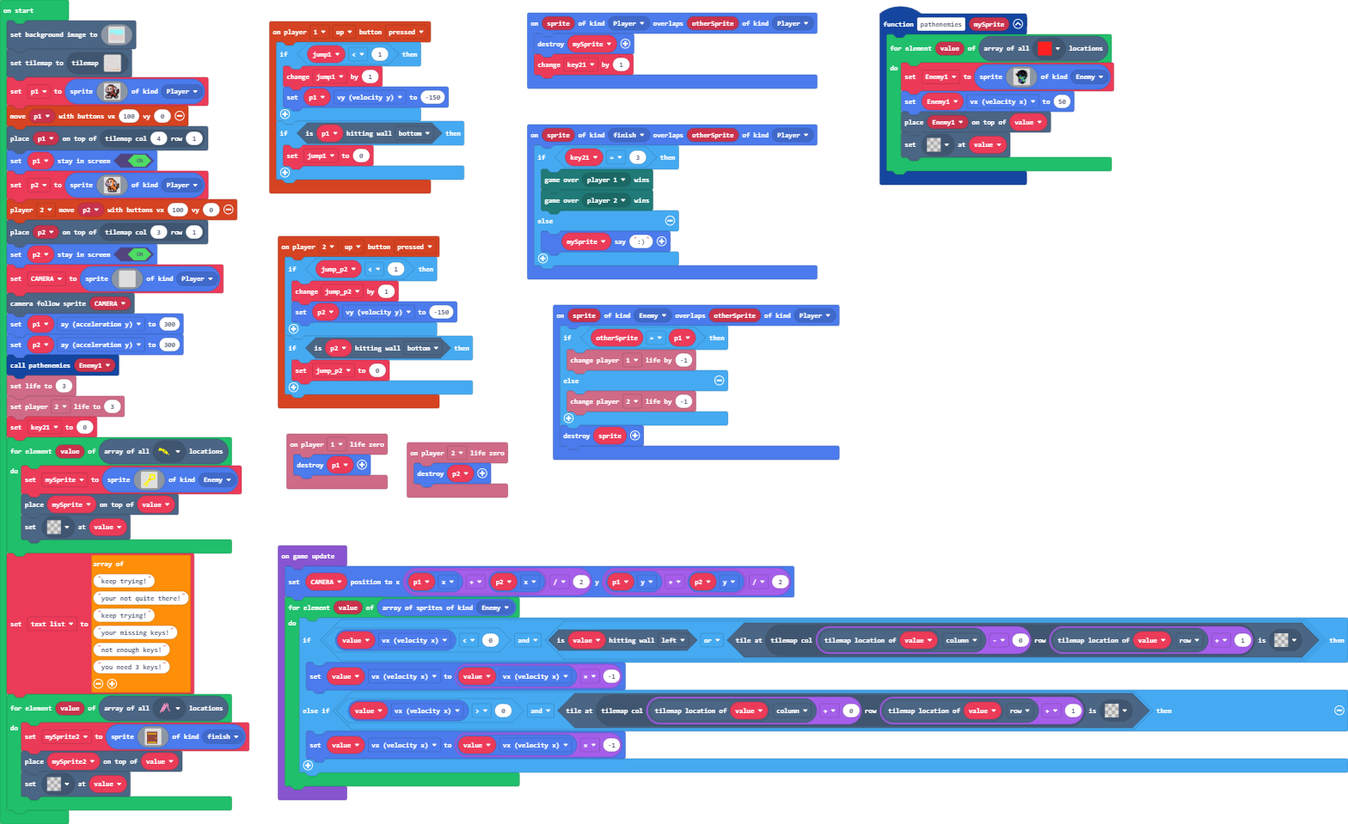
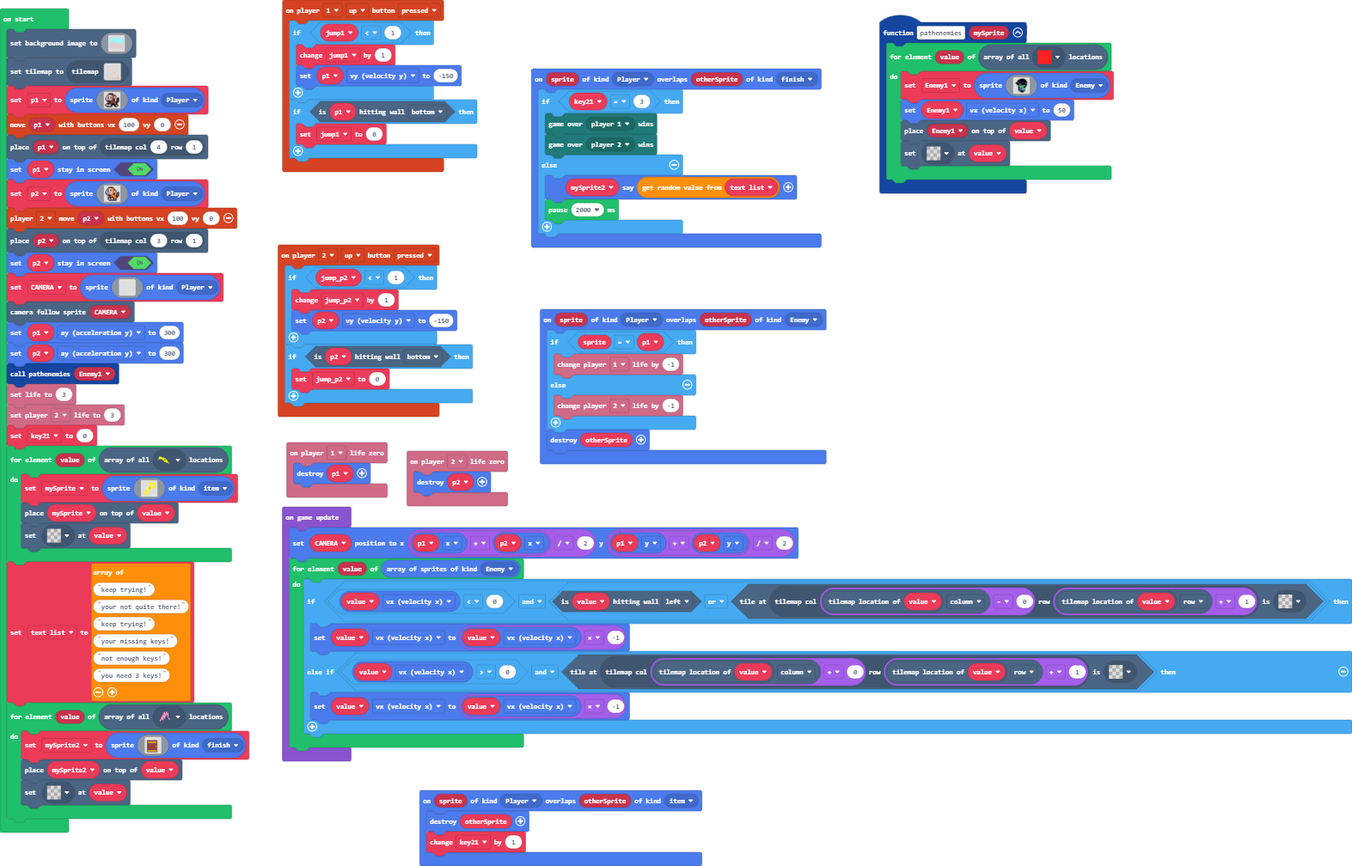
Update main.blocks, main.ts, tilemap.g.jres, tilemap.g.ts

diff --git a/tilemap.g.ts b/tilemap.g.ts
@@ -56,7 +56,7 @@ namespace myTiles {
 . . . . . . . . . . . . . . . . 
 `, [myTiles.transparency16], TileScale.Sixteen);
             case "level2":
-            case "level2":return tiles.createTilemap(hex`6400640000000000000000000000000000000000000000000000000000000000000000000000000000000000000000000000000000000000000000000000000000000000000000000000000000000000000000000000000000000000000000000000000000000000000000000000000600000000000000000000000000000000000000000000000000000000000000000000000000000000000000000000000000000000000000000000000000000000000000000000000000000000000000000000000000000000000000000001010101010101000000000000000000000000000000000000000000000000000000000000000000000000000000000000000000000000000000000000000000000000000000000000000000000000000000000000000000000000000000000000000000000000000000000000000000000000000000000000000000000000000000000000000000000000000000000000000000000000000000000000000000000000000000000000000000000000000000000000000000000000000000000000000000000000000000000000000000050000000000000000000000000000000000000000000000000000000000000000000000000000000000000000000000000000000000000000000000000000000000000000000000000000000000000000000000000000000000000000000000000000010101010101010101010005000000000000000000000000000000000000000000000000000000000000000000000000000000000000000000000000000000000000000001010101010100000000000000000000000000000000000000000000000000000000000000000000000000010101010101010000000000000000000000000000000000000000000000000000000000000000010101010101000000000000000000000000000000000000000000000000000000000000000000000000000000000000000000000000000000000000000000000000000000000001010101010000000000000000000000000000000000000000000000000000000000000000000000000000000000000000000000000000000000000000000000000000000000000000000000000000000000000000000000000000000000000000000000000000000000000000000001010102020202020101000000000000000000000000000000000000000000000000000000000000000001010101010100000000000000000000000000000000010101010101010100000000000000000000000000000000000000000000000000000000000001010101010101000000000000000000000000040202040000000000000000000000000000000000000000000000000000000000000000000000000000000000000000000001010101010000000000000000000000000000000000000000000000000000000000000000000000000101010000000000010101010101000001020202020201010000000000000000000000000000000000000000000000000000000000000000000000000000000000000000000000000000000101010101010101000000000000000000000000000000000000000000000000000000000000000000000101010101010000000000000000000000000000000000000000000000000000000000000000000000000000000000000000000500000000000000000000000000000000000000000000000000000000000000000000000000000000000000000000000000000000000000000000000000000000000000000000000000000000000000000000000000000000000000000000000000000101010101000000000000000000000000000000000000000000000000000000000000000000000000000000000000000000000000000000000000000000000000000000000000000005000000000000000000000000000000000000000000000000000000000000000000000000000000000000000000000000000000000000000000000000000000000101010101000000000000000000000000000000000000000000000000000001010101010101010100000000000000000000000000000000000000000000000000000000000000000000000000010101010101000000000000000000000000000001010100000000000000000000000000000000000000000000000000000000000000000000000000000000000000000000000001040202020404000000000500000000000000000000000000000000000000000000000000000500000000000000000000000000000000000000000000000000000000000000000001010101010000000000000000000000000000000000000000000000010104040101010000000101010101010101010101010101010000000000000000000001010101010101010101000000000000000000000000000000000500000000000001010101010000000101010000000000000000000000000000000000000000000000000000000000000000000000000000000000000000000000000000000000000000000000000000000000000000000000000000000000000001010101010101000000000000000000000000000000000000000000000000000000000000000000000000000000000000000000000000000000000000000000000000000000000000000000000000000000000000000000000000000000000000000000000000000000000000000000000000000000000000000000000000000000000000000000000000000000000000000000000000000000000000000000000000000000000000000000000000000000000000000000000000000000000000000000000000000000000000000000000000000000000000000000000000000000000000000000000000000000000000000000000000000006000000000000000000000000000000000000000000000001010101010100000000000000000000000000000000050000000000000000000000000000000000000000000000000000010100000000000000000000000000000000000000000101010101010101010101000000000000000000000001010101010101000000000000000000000000000000000000000001010101010000000000000000000000000101010000000000000001010101010000000000000000000000000000000000000000000000000000000000000000000000000000000000000000000000000000000000000000000000000101010101000000000000000000000000000000000001010100000000000000000000000000000000000000000000000000000000000000000000000000000000000000000000000000000005000000000000000000000000000000000000000000000000000000000000000000000000000000000000000000000000000000000000000000000000000000000000000100000000000000000000000000000000000000000000000000000000010101010101010000000000000000000000000000000000000000000000000000000000000000000000000000000000000000000000000000000000000000000000000000000000010101010000000000000000000000000000000000000000000000000000000000000000000000000000000000000000010101010000000000000000000000000000000000000000000000000000000000000001010101000000000000000000000000000000000000000000000000000000000000000000000000000000000000000000000000000000000000000000000000000000000000000000000000000000000000000000000000000000000000000000000000000000010100000000000000000000000000000000000000000000000000000000000000000000050000000000000000000000000500000000000000000000000000000000000000000000000000000000000000000000000000000000000000000000000000000000000000000000000000000000000000000000000000000000000000000000000001010101010100000000000001010101010101010000000000000000000000000000000000000000000001010101010101010101000000000000000000000000000000000000000000000000000000000000000000000000000000000000000000000000000000000000000000010101010000000000000000000000000000000001020200000000000101010101010000000000000000000000000000000000000000000000000000000000000000010000000000000000000000000000000000000000000000000000000000000000000000000000000000000000000000000101010101010102020000000000000000000000000000000000000000000000000000000000000000000000060000000101010000000000000000000000000000000000000000000000000000000000000000000000000000000000000000000000000000000000000000000200000000000000000000000000000000000000000000000000000000000001010101010101010100000000000000000000000000000000000000000000000000000000000000000000000000000000000000000000000000000000000000000000000002000000000000000000000000000000000000000000000000000000000000000000000000000000000000000000000000000000000000000000000000000000000000000101010000000000000000000000000000000000000000000000000000000000020000000000000000000000000000000000000000000000000000000000000000000000000000000000000000000000000000000000000000000000000000000000000000000001010101010100000000000000000000000000000000000000000000000200000000000000000000000000000000000000000000000000000000000000000000000000000000000000000000000000000000000000000000000000000000000000000000000000000000000000000000000000000000000000000000000000000002000000000000000000000000000000000000000000000000000000000000000000000000000000000000000000000000000000000000000000000000000000000000000000000000000000000000000000000000010101010101010000000000000000020000000000000000000000000000000000000000000000000000000000000000000000000000000000000000000000000000000000000000000000000000000000000000000000000000000000000000000000000000000000000000000000000000000200000000000000000000000000000000000000000000000000000000000000000000000000000000000000000000000000000000000000000000000000000000000402020202040402020204000000000000000000000000000000000000000000000002000000000000000000000000000000000000000000000000000000000000000000000000000000000000000000000000000000000000000000000000000101010101010101010101010101010101010000000000000000000000000000000000000402020101000000000000000000000000000000000000000000000000000000000000000000000000000000000000000101010000000000000000000000000100000000000000000000000000000000000000000000000005000000000000000000010101010100000000000000000000000000000000000000000000000000000000000000000000000000000001010101010100000000000000000000000000000000000000000000000000000000000000000000000001010101010101010000000000000000000000000000000000000000000000000000000000000000000000000000000000000000000000000101000000000000000000000000000000000000000000000000000000000000000000000000000000000000000000000000000000000000000000000000000000000000000000000000000000000000000000000000000000000000000000000001010100000000000000000000000000000000000000000000000000000000000000000000000000000000000000000000000000000000000000000000000000000000000000000000000000000000000000000000000000000000000000000101010101000000000000000000000000000000000000000000000001010000000000000000000001010100000000000000000000000000000000000000000000000000000000000000000000000000000000000000000000000000000000000000000100000000000000000000000000000000000000000000000000000000000001010100000000000000000001010000000000000000000000000000000000000000000101010101010101010000000000000000000000000000000000000000000000000100000000000000000000000000000000000000000000000000000000000000000000000000000000000000000001010000000000000000000000000000000000000000000000000000000001010101010101000000000000000000000101010000000000000000000000000000000000000000000000000000000000000000000000000000000000000000000000000000000100000000000000000000000004020204000000000000000000000000000000000000000000000000000101010100000000000000000000000000000000000000000000000000000000000000000000000000000000000000000000000000000000000000010000000000000000000101010101010101000000000000000000000000000000000000000000000000000000000000000000000000000000000000000000000000000000000000000000000000000000000000000000000000000000000000000000000001010000000000000000000000000000000000000000000000000000000000000000000000000000000000000000000000000000000000000000000000000000000000000000000000000000000000000000000000000000000000000000000000000000000001010000000000000000000000000000000000000000000000000000000000000000000000000000000002020400000000000000000000000000000000000000000000000000000000000000000000000000000000000000000000000000000000000000000000000000000000000000000000000000000000000000000000000000000000000001010000000002010101010101010101000000000000000000000000000000000000000000000000000000000000000000000000000000000000000000000000000000000000000000000000000000000000000101010101010202020202040000000000000000000000020000000000000000000000000000000000000000000000000000000000000000000000000000000000000000000000000000000000000000000000000000000000000000000000000000000000000000000001010101010101010000000000000000000200000000000000000000000000000000000000000000000000000000000000000000000000000000000000000000000000000000000000000000000000000000000000000000000000000000000000000000000000000000000001010100000000000002000000000000000000000000000000000000000000000000000000000000000000000000000000000000000000000000000000000000000000000101010000000000000000000000000000000000000000000000000000000000000000010000000000020000000000000000000000000101010101010000000000000000000000000000000000000000000000000000000000000000000000000000010100000000000000000000000000000000000000000000000000000000000000000000000000000000000200000000000000000000010100000000000000000000000000000000000000000000000000000000000000000000000000000000060001010000000000000000000000000000000000000000000000000000000000000000000000000000000000000002000000000000000000000000000000000000000000000000000000000000000000000000000000000000000000000000000001010101000000000000000000000000000000000000000000000000000000000000000000000000000000000000000000020000000000000000000000000000000000000000000000000000000000000000000000000000000000000000000000010101000000000000000000000000000000000000000000000000000000000000000000000000000000000000000000000000000200000000000000000000000000000000000000000000000000000000000000000000000000010000000000000000010000000000000000000000000000000000000000000000000000000000000000000000000000000000000000000000000000000402010101010100000000000000000000000000000000000000000000000000000000000000000101010101010000000000000000000000000000000000000000000000000000000000000000000000000000000000000000000000000000000001010101010000000000000000000000000000000000000000000000000000000000000000000000000000000000000000000000000000000000000000000000000000000000000000000000000101000000000000000000000000000000000101010101000000000000000000000000000000000000000000000000000000000000000000000000000000000000000000000000000000000101010101010000000000000000000000000000000001010100000000000000000000000000000000000100000000000000000000000000000000000000000000000000000000000000000000000000000000000000000000000000000000000000000000000000000000000000000000000000000001010101000000000001010101010000000000000000000000000000000000000000000000000000000000000000000000000000000000000000000000000000000000000000000000000000000000000000000000000000000000000000010101010101000000000000000000000000000000000000000000000000000000000000000000000000000000000000000101010000000000000000000000000000000000000000000000000000000001010101010000000000000000000000010101000000000000000000000000000000000000000000000000000000000005000000000000000000000000000000000001010100000000000000000000000000000000000000000000000000000000000000000000000000000000000500000000000000000000000000000000000000000000000000000000000000000001010101010101000000000000000000000000000000000000000000000000000000000000000000000000000000000000000000000000000000000000000001010101010101000000000000000000000000000000000000000000000000000000000000000000000000000000000000000000000000000000000000000000000000000000000000000000000000000000000000000000000000000000000000000000000000000000000000000000000000000000000000000000000000000000000000000000000000000000000000000000000000000000000000000000000000000000000000000000000000000000000000000000000000000000000600000500000000000000000000000000000000000000000000000000000000000000000000000001010101010000000000000000000000000000000000000000000000000000000000000000000000000000000000000000000000000000000000000001010101010101010000000000000000000000000000000000000000000000000000000000000000000000000000000000000000000000000000000000000000000000000000000000000000000000000000000000000000000000000000000000000000000000000000000000000000000000000000000000000000000000000000000000000000000000000006000000000000000101010000000000000000000000000000000000000000000000000000000102020202020202020202020100000000000000000000000000000000000000000000000100000000000000000000000000000000010101010101010101010101010101010100000001000000000000000000000000000000000000000000010101010101010101010101010101010101000000000000000000000000000000000000000101010101000000000000000000000000000000000000000000000000000000000000000000000000000000000000000000000000000000000000010101010000000000000000000000000000000000000101000000000000000000000000000000000000000000000000000000000000000000000000000000000000000000000000000000000000000000000000000000000000000000000000000000000000000000000000000000000000000000000000000000000000000000000000000000000000000000000000000000000000000000000000000001000000000000000000000000000000000000000000000000000000000000000000000000000000000000000000000000000000000000000000000000000000000000000000000000000000000000000000000000000001020202020202010000000000000101010100000000000000000000000000000000000000000000000001010100000000000000000000000000000000000000000000000000000000000000000000000000000000000000000000000000000101010101010101010101010101010000000000000000000000000000000000000000000000000000000000000000000000010000000000000000000000000000000000000000000000000000000000000000000000000000000000000000000000000000000000000000000000000000000000000000000000000000000000000000000000000000000000000000000000000000000000000000000000000000000000000000000000000000000000000000000000000000000000000000000000000000000000000000000000000000000000000000000000000000000000000000000000000500000000000000000000000000000000000000000000000000000000000000000000000000000000000000000202020201000000000000000000000101010202020203030300000000000000000000000000000000000500000000000000000101010101010101010000000000000000000000000000000000000000000000000000000000000000000000000000000002010101000000000000000000000000000001010101010100000000000000000000000000000000010101010101010000000000000000000000000000000000000000000000000000000000000000000000000000000000000000000000000000000000020000000000000000000000000000000000000000000000000000000000000000000000000000000000000000000000000000000000000000000000000000000000000000000000000000000000000000000000000000000000000001010000000000000200000000000000000000000000000000000000000000000000000000000000000000000000000000000000000000000000000000000000000000000001010100000000000000000000000000000000000000000006000001010101000000000000000002000000000000000000000000000000000000000000000000050000000000000000000000000000000000000000000000010000000000000000000000000000010101010000000000000000000000000001010101010101000000000000000000000000020000000000000000000000000000000000000000000001010101010101000100000000000000000000000001010101010000000000000000000000000000000000000000000000000000000001010101000000000000000000000000000000000000000200000000000000000000000000000000000000000000000000000000000101000000000000000000000000000000000000000000010101000000000000000000000000000000000000000000000000000000000000000000000000000000000000000002000000000000000000000000000000000000000000000000000000000000000000000000000000000000000600000000000000000000000101010000000000000000000000000000000000000000000000000000000000000000000000000000000000020000000000000000000000000000000000070000000000000000000000000000000000000000000000010101010000000000000000000000000000000000000000000000000000000000000001010100000000000000000000000000000000000000000200000000000000000000000000010101010101010101010000000000000000000000000000000101010000000001010000000000000000000000000000000000000000000000000001010101000000000000000000000000000000000000000000000002000000000000000000000000000000000000000000000000000000000101000000000000000000000000000000000000000000000000000000000000000000000000000001000000000000000000000000000000000000000000000000000000000100020000000000000000000000000000000000000000000000000000000000010101010100000000000000000000000000000000000000000000000000000000000000000001000000000000000000000000000000000000000000000000000000010100000200000000000000000000000000000000000000000000000000000000000000000000010100000000000000000000000000000000000000000000000000000000010101000000000000000000000000000000000000000000000000000000010000000002000000000000000000000000000000000000000000000000000000000000000000000000010101010000000000000000000000000000000000000000000000000000000000000000000000000000000000000000000000000000000000010000000000020000000000000000000000000000000000000000000000000000000000000000000000000000000001000000000000000000000000000000000000000000000000000000000000000000000000020202020202020202020000000000000000000000000200000002020202020202000000000000000000000000000000000000000000000000000000000000000000000000000000000000000000000000000000000000020202020202020202020202020202020202020202020202020202020202020202020202020202020202020202020000000000000000000000000000000000000000000002020202020000000000000000000000000002020202020202020202020202020202020202020202020202020202020202020202020202020202020202020202020202020202020202020202020202020202020202020202020202020202020202020202020202020202020202020202020202020202020202020202020202020202020202020202020202020202020202020202020202020202020202020202020202020202020202020202020202020202`, img`
+            case "level2":return tiles.createTilemap(hex`6400640000000000000000000000000000000000000000000000000000000000000000000000000000000000000000000000000000000000000000000000000000000000000000000000000000000000000000000000000000000000000000000000000000000000000000000000000600000000000000000000000000000000000000000000000000000000000000000000000000000000000000000000000000000000000000000000000000000000000000000000000000000000000000000000000000000000000000000001010101010101000000000000000000000000000000000000000000000000000000000000000000000000000000000000000000000000000000000000000000000000000000000000000000000000000000000000000000000000000000000000000000000000000000000000000000000000000000000000000000000000000000000000000000000000000000000000000000000000000000000000000000000000000000000000000000000000000000000000000000000000000000000000000000000000000000000000000000050000000000000000000000000000000000000000000000000000000000000000000000000000000000000000000000000000000000000000000000000000000000000000000000000000000000000000000000000000000000000000000000000000010101010101010101010005000000000000000000000000000000000000000000000000000000000000000000000000000000000000000000000000000000000000000001010101010100000000000000000000000000000000000000000000000000000000000000000000000000010101010101010000000000000000000000000000000000000000000000000000000000000000010101010101000000000000000000000000000000000000000000000000000000000000000000000000000000000000000000000000000000000000000000000000000000000001010101010000000000000000000000000000000000000000000000000000000000000000000000000000000000000000000000000000000000000000000000000000000000000000000000000600000600000000000000000000000000000000000000000000000000000000000001010102020202020101000000000000000000000000000000000000000000000000000000000000000001010101010100000000000000000000000000000000010101010101010100000700000000000000000000000000000000000000000000000000000001010101010101000000000000000000000000040202040000000000000000000000000000000000000000000000000000000000000000000000000000000000000000000001010101010000000000000000000000000000000000000000000000000000000000000000000000000101010000000000010101010101000001020202020201010000000000000000000000000000000000000000000000000000000000000000000000000000000000000000000000000000000101010101010101000000000000000000000000000000000000000000000000000000000000000000000101010101010000000000000000000000000000000000000000000000000000000000000000000000000000000000000000000500000000000000000000000000000000000000000000000000000000000000000000000000000000000000000000000000000000000000000000000000000000000000000000000000000000000000000000000000000000000000000000000000000101010101000000000000000000000000000000000000000000000000000000000000000000000000000000000000000000000000000000000000000000000000000000000000000005000000000000000000000000000000000000000000000000000000000000000000000000000000000000000000000000000000000000000000000000000000000101010101000000000000000000000000000000000000000000000000000001010101010101010100000000000000000000000000000000000000000000000000000000000000000000000000010101010101000000000000000000000000000001010100000000000000000000000000000000000000000000000000000000000000000000000000000000000000000000000001040202020404000000000500000000000000000000000000000000000000000000000000000500000000000000000000000000000000000000000000000000000000000000000001010101010000000000000000000000000000000000000000000000010104040101010000000101010101010101010101010101010000000000000000000001010101010101010101000000000000000000000000000000000500000000000001010101010000000101010000000000000000000000000000000000000000000000000000000000000000000000000000000000000000000000000000000000000000000000000000000000000000000000000000000000000001010101010101000000000000000000000000000000000000000000000000000000000000000000000000000000000000000000000000000000000000000000000000000000000000000000000000000000000000000000000000000000000000000000000000000000000000000000000000000000000000000000000000000000000000000000000000000000000000000000000000000000000000000000000000000000000000000000000000000000000000000000000000000000000000000000000000000000000000000000000000000000000000000000000000000000000000000000000000000000000000000000000000000006000000000000000000000000000000000000000000000001010101010100000000000000000000000000000000050000000000000000000000000000000000000000000000000000010100000000000000000000000000000000000000000101010101010101010101000000000000000000000001010101010101000000000000000000000000000000000000000001010101010000000000000000000000000101010000000000000001010101010000000000000000000000000000000000000000000000000000000000000000000000000000000000000000000000000000000000000000000000000101010101000000000000000000000000000000000001010100000000000000000000000000000000000000000000000000000000000000000000000000000000000000000000000000000005000000000000000000000000000000000000000000000000000000000000000000000000000000000000000000000000000000000000000000000000000000000000000100000000000000000000000000000000000000000000000000000000010101010101010000000000000000000000000000000000000000000000000000000000000000000000000000000000000000000000000000000000000000000000000000000000010101010000000000000000000000000000000000000000000000000000000000000000000000000000000000000000010101010000000000000000000000000000000000000000000000000000000000000001010101000000000000000000000000000000000000000000000000000000000000000000000000000000000000000000000000000000000000000000000000000000000000000000000000000000000000000000000000000000000000000000000000000000010100000000000000000000000000000000000000000000000000000000000000000000050000000000000000000000000500000000000000000000000000000000000000000000000000000000000000000000000000000000000000000000000000000000000000000000000000000000000000000000000000000000000000000000000001010101010100000000000001010101010101010000000000000000000000000000000000000000000001010101010101010101000000000000000000000000000000000000000000000000000000000000000000000000000000000000000000000000000000000000000000010101010000000000000000000000000000000001020200000000000101010101010000000000000000000000000000000000000000000000000000000000000000010000000000000000000000000000000000000000000000000000000000000000000000000000000000000000000000000101010101010102020000000000000000000000000000000000000000000000000000000000000000000000060000000101010000000000000000000000000000000000000000000000000000000000000000000000000000000000000000000000000000000000000000000200000000000000000000000000000000000000000000000000000000000001010101010101010100000000000000000000000000000000000000000000000000000000000000000000000000000000000000000000000000000000000000000000000002000000000000000000000000000000000000000000000000000000000000000000000000000000000000000000000000000000000000000000000000000000000000000101010000000000000000000000000000000000000000000000000000000000020000000000000000000000000000000000000000000000000000000000000000000000000000000000000000000000000000000000000000000000000000000000000000000001010101010100000000000000000000000000000000000000000000000200000000000000000000000000000000000000000000000000000000000000000000000000000000000000000000000000000000000000000000000000000000000000000000000000000000000000000000000000000000000000000000000000000002000000000000000000000000000000000000000000000000000000000000000000000000000000000000000000000000000000000000000000000000000000000000000000000000000000000000000000000000010101010101010000000000000000020000000000000000000000000000000000000000000000000000000000000000000000000000000000000000000000000000000000000000000000000000000000000000000000000000000000000000000000000000000000000000000000000000000200000000000000000000000000000000000000000000000000000000000000000000000000000000000000000000000000000000000000000000000000000000000402020202040402020204000000000000000000000000000000000000000000000002000000000000000000000000000000000000000000000000000000000000000000000000000000000000000000000000000000000000000000000000000101010101010101010101010101010101010000000000000000000000000000000000000402020101000000000000000000000000000000000000000000000000000000000000000000000000000000000000000101010000000000000000000000000100000000000000000000000000000000000000000000000005000000000000000000010101010100000000000000000000000000000000000000000000000000000000000000000000000000000001010101010100000000000000000000000000000000000000000000000000000000000000000000000001010101010101010000000000000000000000000000000000000000000000000000000000000000000000000000000000000000000000000101000000000000000000000000000000000000000000000000000000000000000000000000000000000000000000000000000000000000000000000000000000000000000000000000000000000000000000000000000000000000000000000001010100000000000000000000000000000000000000000000000000000000000000000000000000000000000000000000000000000000000000000000000000000000000000000000000000000000000000000000000000000000000000000101010101000000000000000000000000000000000000000000000001010000000000000000000001010100000000000000000000000000000000000000000000000000000000000000000000000000000000000000000000000000000000000000000100000000000000000000000000000000000000000000000000000000000001010100000000000000000001010000000000000000000000000000000000000000000101010101010101010000000000000000000000000000000000000000000000000100000000000000000000000000000000000000000000000000000000000000000000000000000000000000000001010000000000000000000000000000000000000000000000000000000001010101010101000000000000000000000101010000000000000000000000000000000000000000000000000000000000000000000000000000000000000000000000000000000100000000000000000000000004020204000000000000000000000000000000000000000000000000000101010100000000000000000000000000000000000000000000000000000000000000000000000000000000000000000000000000000000000000010000000000000000000101010101010101000000000000000000000000000000000000000000000000000000000000000000000000000000000000000000000000000000000000000000000000000000000000000000000000000000000000000000000001010000000000000000000000000000000000000000000000000000000000000000000000000000000000000000000000000000000000000000000000000000000000000000000000000000000000000000000000000000000000000000000000000000000001010000000000000000000000000000000000000000000000000000000000000000000000000000000002020400000000000000000000000000000000000000000000000000000000000000000000000000000000000000000000000000000000000000000000000000000000000000000000000000000000000000000000000000000000000001010000000002010101010101010101000000000000000000000000000000000000000000000000000000000000000000000000000000000000000000000000000000000000000000000000000000000000000101010101010202020202040000000000000000000000020000000000000000000000000000000000000000000000000000000000000000000000000000000000000000000000000000000000000000000000000000000000000000000000000000000000000000000001010101010101010000000000000000000200000000000000000000000000000000000000000000000000000000000000000000000000000000000000000000000000000000000000000000000000000000000000000000000000000000000000000000000000000000000001010100000000000002000000000000000000000000000000000000000000000000000000000000000000000000000000000000000000000000000000000000000000000101010000000000000000000000000000000000000000000000000000000000000000010000000000020000000000000000000000000101010101010000000000000000000000000000000000000000000000000000000000000000000000000000010100000000000000000000000000000000000000000000000000000000000000000000000000000000000200000000000000000000010100000000000000000000000000000000000000000000000000000000000000000000000000000000060001010000000000000000000000000000000000000000000000000000000000000000000000000000000000000002000000000000000000000000000000000000000000000000000000000000000000000000000000000000000000000000000001010101000000000000000000000000000000000000000000000000000000000000000000000000000000000000000000020000000000000000000000000000000000000000000000000000000000000000000000000000000000000000000000010101000000000000000000000000000000000000000000000000000000000000000000000000000000000000000000000000000200000000000000000000000000000000000000000000000000000000000000000000000000010000000000000000010000000000000000000000000000000000000000000000000000000000000000000000000000000000000000000000000000000402010101010100000000000000000000000000000000000000000000000000000000000000000101010101010000000000000000000000000000000000000000000000000000000000000000000000000000000000000000000000000000000001010101010000000000000000000000000000000000000000000000000000000000000000000000000000000000000000000000000000000000000000000000000000000000000000000000000101000000000000000000000000000000000101010101000000000000000000000000000000000000000000000000000000000000000000000000000000000000000000000000000000000101010101010000000000000000000000000000000001010100000000000000000000000000000000000100000000000000000000000000000000000000000000000000000000000000000000000000000000000000000000000000000000000000000000000000000000000000000000000000000001010101000000000001010101010000000000000000000000000000000000000000000000000000000000000000000000000000000000000000000000000000000000000000000000000000000000000000000000000000000000000000010101010101000000000000000000000000000000000000000000000000000000000000000000000000000000000000000101010000000000000000000000000000000000000000000000000000000001010101010000000000000000000000010101000000000000000000000000000000000000000000000000000000000005000000000000000000000000000000000001010100000000000000000000000000000000000000000000000000000000000000000000000000000000000500000000000000000000000000000000000000000000000000000000000000000001010101010101000000000000000000000000000000000000000000000000000000000000000000000000000000000000000000000000000000000000000001010101010101000000000000000000000000000000000000000000000000000000000000000000000000000000000000000000000000000000000000000000000000000000000000000000000000000000000000000000000000000000000000000000000000000000000000000000000000000000000000000000000000000000000000000000000000000000000000000000000000000000000000000000000000000000000000000000000000000000000000000000000000000000000600000500000000000000000000000000000000000000000000000000000000000000000000000001010101010000000000000000000000000000000000000000000000000000000000000000000000000000000000000000000000000000000000000001010101010101010000000000000000000000000000000000000000000000000000000000000000000000000000000000000000000000000000000000000000000000000000000000000000000000000000000000000000000000000000000000000000000000000000000000000000000000000000000000000000000000000000000000000000000000000006000000000000000101010000000000000000000000000000000000000000000000000000000102020202020202020202020100000000000000000000000000000000000000000000000100000000000000000000000000000000010101010101010101010101010101010100000001000000000000000000000000000000000000000000010101010101010101010101010101010101000000000000000000000000000000000000000101010101000000000000000000000000000000000000000000000000000000000000000000000000000000000000000000000000000000000000010101010000000000000000000000000000000000000101000000000000000000000000000000000000000000000000000000000000000000000000000000000000000000000000000000000000000000000000000000000000000000000000000000000000000000000000000000000000000000000000000000000000000000000000000000000000000000000000000000000000000000000000000001000000000000000000000000000000000000000000000000000000000000000000000000000000000000000000000000000000000000000000000000000000000000000000000000000000000000000000000000000001020202020202010000000000000101010100000000000000000000000000000000000000000000000001010100000000000000000000000000000000000000000000000000000000000000000000000000000000000000000000000000000101010101010101010101010101010000000000000000000000000000000000000000000000000000000000000000000000010000000000000000000000000000000000000000000000000000000000000000000000000000000000000000000000000000000000000000000000000000000000000000000000000000000000000000000000000000000000000000000000000000000000000000000000000000000000000000000000000000000000000000000000000000000000000000000000000000000000000000000000000000000000000000000000000000000000000000000000000500000000000000000000000000000000000000000000000000000000000000000000000000000000000000000202020201000000000000000000000101010202020203030300000000000000000000000000000000000500000000000000000101010101010101010000000000000000000000000000000000000000000000000000000000000000000000000000000002010101000000000000000000000000000001010101010100000000000000000000000000000000010101010101010000000000000000000000000000000000000000000000000000000000000000000000000000000000000000000000000000000000020000000000000000000000000000000000000000000000000000000000000000000000000000000000000000000000000000000000000000000000000000000000000000000000000000000000000000000000000000000000000001010000000000000200000000000000000000000000000000000000000000000000000000000000000000000000000000000000000000000000000000000000000000000001010100000000000000000000000000000000000000000006000001010101000000000000000002000000000000000000000000000000000000000000000000050000000000000000000000000000000000000000000000010000000000000000000000000000010101010000000000000000000000000001010101010101000000000000000000000000020000000000000000000000000000000000000000000001010101010101000100000000000000000000000001010101010000000000000000000000000000000000000000000000000000000001010101000000000000000000000000000000000000000200000000000000000000000000000000000000000000000000000000000101000000000000000000000000000000000000000000010101000000000000000000000000000000000000000000000000000000000000000000000000000000000000000002000000000000000000000000000000000000000000000000000000000000000000000000000000000000000600000000000000000000000101010000000000000000000000000000000000000000000000000000000000000000000000000000000000020000000000000000000000000000000000070000000000000000000000000000000000000000000000010101010000000000000000000000000000000000000000000000000000000000000001010100000000000000000000000000000000000000000200000000000000000000000000010101010101010101010000000000000000000000000000000101010000000001010000000000000000000000000000000000000000000000000001010101000000000000000000000000000000000000000000000002000000000000000000000000000000000000000000000000000000000101000000000000000000000000000000000000000000000000000000000000000000000000000001000000000000000000000000000000000000000000000000000000000100020000000000000000000000000000000000000000000000000000000000010101010100000000000000000000000000000000000000000000000000000000000000000001000000000000000000000000000000000000000000000000000000010100000200000000000000000000000000000000000000000000000000000000000000000000010100000000000000000000000000000000000000000000000000000000010101000000000000000000000000000000000000000000000000000000010000000002000000000000000000000000000000000000000000000000000000000000000000000000010101010000000000000000000000000000000000000000000000000000000000000000000000000000000000000000000000000000000000010000000000020000000000000000000000000000000000000000000000000000000000000000000000000000000001000000000000000000000000000000000000000000000000000000000000000000000000020202020202020202020000000000000000000000000200000002020202020202000000000000000000000000000000000000000000000000000000000000000000000000000000000000000000000000000000000000020202020202020202020202020202020202020202020202020202020202020202020202020202020202020202020000000000000000000000000000000000000000000002020202020000000000000000000000000002020202020202020202020202020202020202020202020202020202020202020202020202020202020202020202020202020202020202020202020202020202020202020202020202020202020202020202020202020202020202020202020202020202020202020202020202020202020202020202020202020202020202020202020202020202020202020202020202020202020202020202020202020202`, img`
 ....................................................................................................
 ....................................................................................................
 22222222............................................................................................

diff --git a/main.ts b/main.ts
@@ -1,6 +1,16 @@
 namespace SpriteKind {
     export const finish = SpriteKind.create()
+    export const item = SpriteKind.create()
 }
+sprites.onOverlap(SpriteKind.Player, SpriteKind.finish, function (sprite, otherSprite) {
+    if (key21 == 3) {
+        mp.gameOverPlayerWin(mp.playerSelector(mp.PlayerNumber.One))
+        mp.gameOverPlayerWin(mp.playerSelector(mp.PlayerNumber.Two))
+    } else {
+        mySprite2.sayText(text_list._pickRandom())
+        pause(2000)
+    }
+})
 controller.player1.onButtonEvent(ControllerButton.Up, ControllerButtonEvent.Pressed, function () {
     if (jump1 < 1) {
         jump1 += 1
@@ -35,13 +45,9 @@ function pathenemies (mySprite: Sprite) {
         tiles.setTileAt(value, assets.tile`transparency16`)
     }
 }
-sprites.onOverlap(SpriteKind.finish, SpriteKind.Player, function (sprite, otherSprite) {
-    if (key21 == 3) {
-        mp.gameOverPlayerWin(mp.playerSelector(mp.PlayerNumber.One))
-        mp.gameOverPlayerWin(mp.playerSelector(mp.PlayerNumber.Two))
-    } else {
-        mySprite.sayText(":)")
-    }
+sprites.onOverlap(SpriteKind.Player, SpriteKind.item, function (sprite, otherSprite) {
+    sprites.destroy(otherSprite)
+    key21 += 1
 })
 controller.player2.onButtonEvent(ControllerButton.Up, ControllerButtonEvent.Pressed, function () {
     if (jump_p2 < 1) {
@@ -52,27 +58,24 @@ controller.player2.onButtonEvent(ControllerButton.Up, ControllerButtonEvent.Pres
         jump_p2 = 0
     }
 })
-sprites.onOverlap(SpriteKind.Enemy, SpriteKind.Player, function (sprite, otherSprite) {
-    if (otherSprite == p1) {
-        info.player1.changeLifeBy(-1)
-    } else {
-        info.player2.changeLifeBy(-1)
-    }
-    sprites.destroy(sprite)
-})
-sprites.onOverlap(SpriteKind.Player, SpriteKind.Player, function (sprite, otherSprite) {
-    sprites.destroy(mySprite)
-    key21 += 1
-})
 info.player1.onLifeZero(function () {
     sprites.destroy(p1)
 })
 info.player2.onLifeZero(function () {
     sprites.destroy(p2)
 })
+sprites.onOverlap(SpriteKind.Player, SpriteKind.Enemy, function (sprite, otherSprite) {
+    if (sprite == p1) {
+        info.player1.changeLifeBy(-1)
+    } else {
+        info.player2.changeLifeBy(-1)
+    }
+    sprites.destroy(otherSprite)
+})
 let jump_p2 = 0
 let jump1 = 0
 let mySprite2: Sprite = null
+let text_list: string[] = []
 let mySprite: Sprite = null
 let key21 = 0
 let Enemy1: Sprite = null
@@ -286,11 +289,11 @@ for (let value of tiles.getTilesByType(assets.tile`myTile1`)) {
         . 5 5 5 . 5 5 . . . . . . . . . 
         . . . . 5 5 . . . . . . . . . . 
         . . . . 5 . . . . . . . . . . . 
-        `, SpriteKind.Enemy)
+        `, SpriteKind.item)
     tiles.placeOnTile(mySprite, value)
     tiles.setTileAt(value, assets.tile`transparency16`)
 }
-let text_list = [
+text_list = [
 "keep trying!",
 "your not quite there!",
 "keep trying!",
